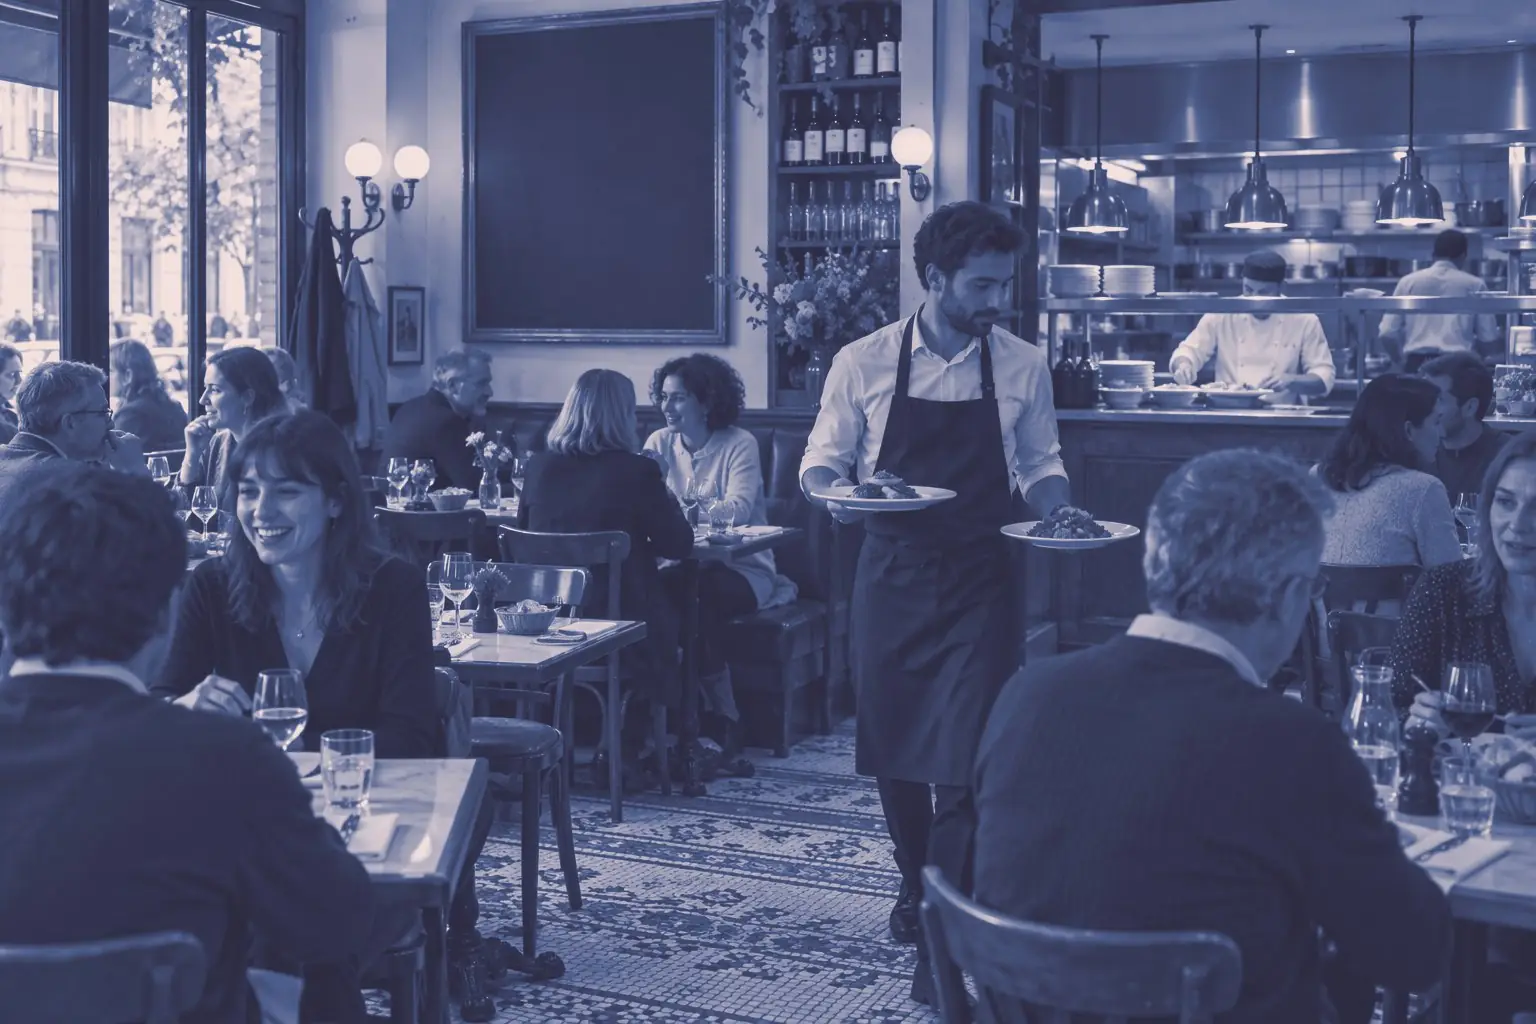
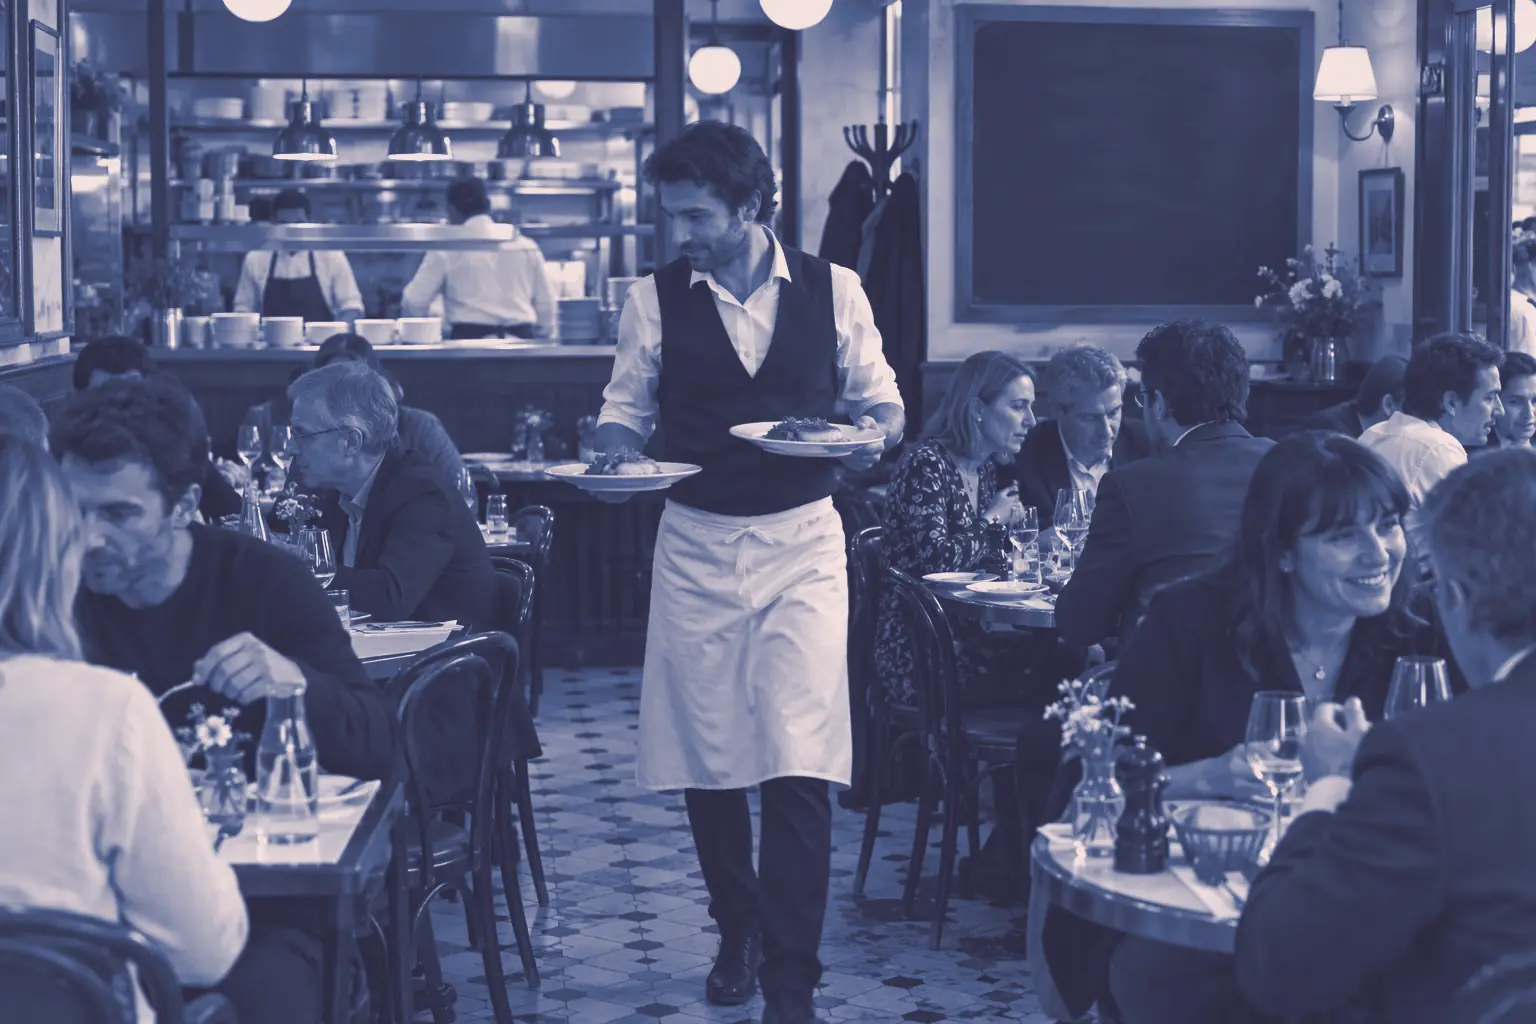
feat(arene): sept lieux en seconde série de photos, quatre retournés en miroir
MARTEL & FILS, MAILLE & CO, NOVA, VOLT FITNESS, ATLAS CONSEIL, LA TABLE
D'AUGUSTIN et L'ESCALE passent aux nouvelles photos du propriétaire, plus
vivantes (des gens au travail, la salle de VOLT pleine, le service au bistrot,
l'accueil à la réception), au format 3:2, avec le même traitement que les
autres (bichromie marine, voile de 16 % de la teinte du métier).

NOVA, L'ESCALE, LA TABLE D'AUGUSTIN et ROUTE & CIE sont retournées en miroir :
le texte est posé à gauche sur un voile, les personnages passent à droite.
Aucune ne porte d'écriture qu'un miroir trahirait.

Gommés à la retouche : les chiffres du niveau et l'étiquette du casque de
MARTEL, le logo d'un ordinateur d'ATLAS. Tailles et cadrages mis à jour.

Claude-Session: https://claude.ai/code/session_01L5mCiYtruo2g7r6qPvxrmZ

diff --git a/src/components/illustrations/scene-d-entreprise.tsx b/src/components/illustrations/scene-d-entreprise.tsx
@@ -53,18 +53,30 @@ export const SCENES_DES_ENTREPRISES: Record<string, { lieu: string; Dessin: Comp
  * panneau de chantier et les sacs d'enduit de MARTEL, les étiquettes d'étagères
  * et les logos d'enceintes de NOVA ont été effacés à la retouche).
  *
+ * Octobre : MARTEL, MAILLE & CO, NOVA, VOLT, ATLAS, LA TABLE D'AUGUSTIN et
+ * L'ESCALE passent à une seconde série, plus vivante (des gens au travail, la
+ * salle de VOLT pleine, le service au bistrot, l'accueil à la réception), en
+ * 3:2. Quatre lieux sont retournés en miroir, là où le retournement montre
+ * mieux le lieu : le texte est posé à gauche, sur un voile, et NOVA
+ * (l'assembleur à son établi), L'ESCALE (la réceptionniste et son client), LA
+ * TABLE D'AUGUSTIN (le serveur, la cliente attablée) et ROUTE & CIE (le
+ * cariste et ses palettes) passent ainsi à droite. Aucune de ces quatre photos
+ * ne porte d'écriture qu'un miroir trahirait. Les chiffres du niveau de
+ * MARTEL, l'étiquette de son casque et le logo d'un ordinateur d'ATLAS ont été
+ * gommés.
+ *
  * `cadrage` est la position verticale du cadre (`background-position`), réglée
  * pour garder les visages dans le bandeau, sur ordinateur comme au téléphone.
  */
 export const PHOTOS_DES_ENTREPRISES: Record<string, { cadrage: number }> = {
-  nova: { cadrage: 52 },
-  boutique: { cadrage: 27 },
-  hotel: { cadrage: 37 },
-  bistrot: { cadrage: 34 },
-  conseil: { cadrage: 49 },
+  nova: { cadrage: 40 },
+  boutique: { cadrage: 35 },
+  hotel: { cadrage: 25 },
+  bistrot: { cadrage: 22 },
+  conseil: { cadrage: 25 },
   ecommerce: { cadrage: 44 },
-  fitness: { cadrage: 69 },
-  batiment: { cadrage: 45 },
+  fitness: { cadrage: 50 },
+  batiment: { cadrage: 18 },
   transport: { cadrage: 70 },
 };
 
@@ -80,14 +92,14 @@ export function fichierDeLaPhoto(entreprise: string, petit = false): string {
  * son `srcset`. La garde `mise-en-scene.test.ts` la relit dans les fichiers.
  */
 export const TAILLES_DES_PHOTOS: Record<string, { largeur: number; hauteur: number }> = {
-  nova: { largeur: 1376, hauteur: 768 },
+  nova: { largeur: 1536, hauteur: 1024 },
   boutique: { largeur: 1536, hauteur: 1024 },
   hotel: { largeur: 1536, hauteur: 1024 },
   bistrot: { largeur: 1536, hauteur: 1024 },
-  conseil: { largeur: 1408, hauteur: 768 },
+  conseil: { largeur: 1536, hauteur: 1024 },
   ecommerce: { largeur: 1408, hauteur: 768 },
-  fitness: { largeur: 1408, hauteur: 768 },
-  batiment: { largeur: 1408, hauteur: 768 },
+  fitness: { largeur: 1536, hauteur: 1024 },
+  batiment: { largeur: 1536, hauteur: 1024 },
   transport: { largeur: 1376, hauteur: 768 },
 };
 
